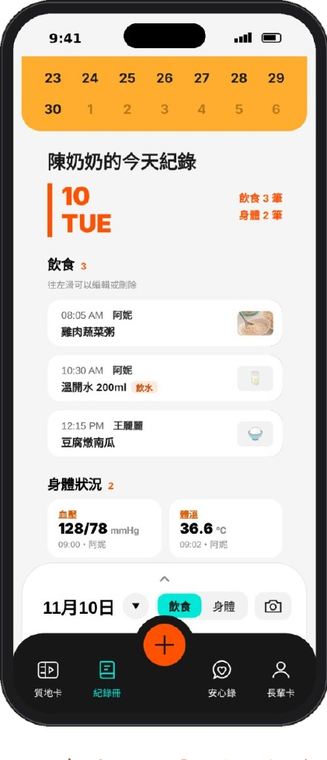
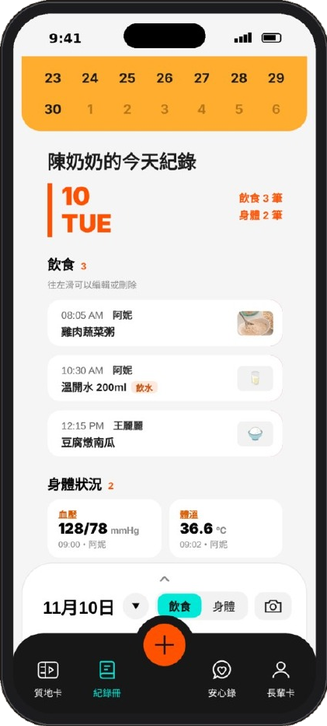
Remove frame around hero phone; trim stray pixels from screenshots
Claude-Session: https://claude.ai/code/session_014JMHFKqJJ3Ho8YgDZTNvXC

diff --git a/index.html b/index.html
@@ -146,8 +146,8 @@ body::before { content: ""; position: fixed; inset: 0 0 auto; height: env(safe-a
 .slides { position: relative; margin-top: 22px; min-height: 360px; }
 .slide { display: grid; grid-template-columns: 210px 1fr; gap: 36px; align-items: center; }
 .slide[hidden] { display: none !important; }
-.slide-img { background: linear-gradient(170deg, #FFFFFF 0%, #FAF9F6 55%, #EDEAE4 100%); border: 1px solid #E4E0D8; border-radius: 22px; padding: 18px 18px 0; display: flex; justify-content: center; overflow: hidden; height: 330px; }
-.slide-img img { width: auto; height: 100%; max-width: 100%; object-fit: contain; object-position: top; }
+.slide-img { display: flex; justify-content: center; height: 330px; }
+.slide-img img { width: auto; height: 100%; max-width: 100%; object-fit: contain; object-position: center; filter: drop-shadow(0 14px 24px rgba(28,26,24,.16)); }
 .slide-no { display: flex; align-items: baseline; gap: 14px; }
 .slide-no b { font-family: var(--latin); font-size: calc(64px * var(--fs)); font-weight: 600; line-height: 1; letter-spacing: .02em; }
 .slide-no span { font-family: var(--latin); font-weight: 700; font-size: calc(16px * var(--fs)); letter-spacing: .1em; line-height: 1.2; }
